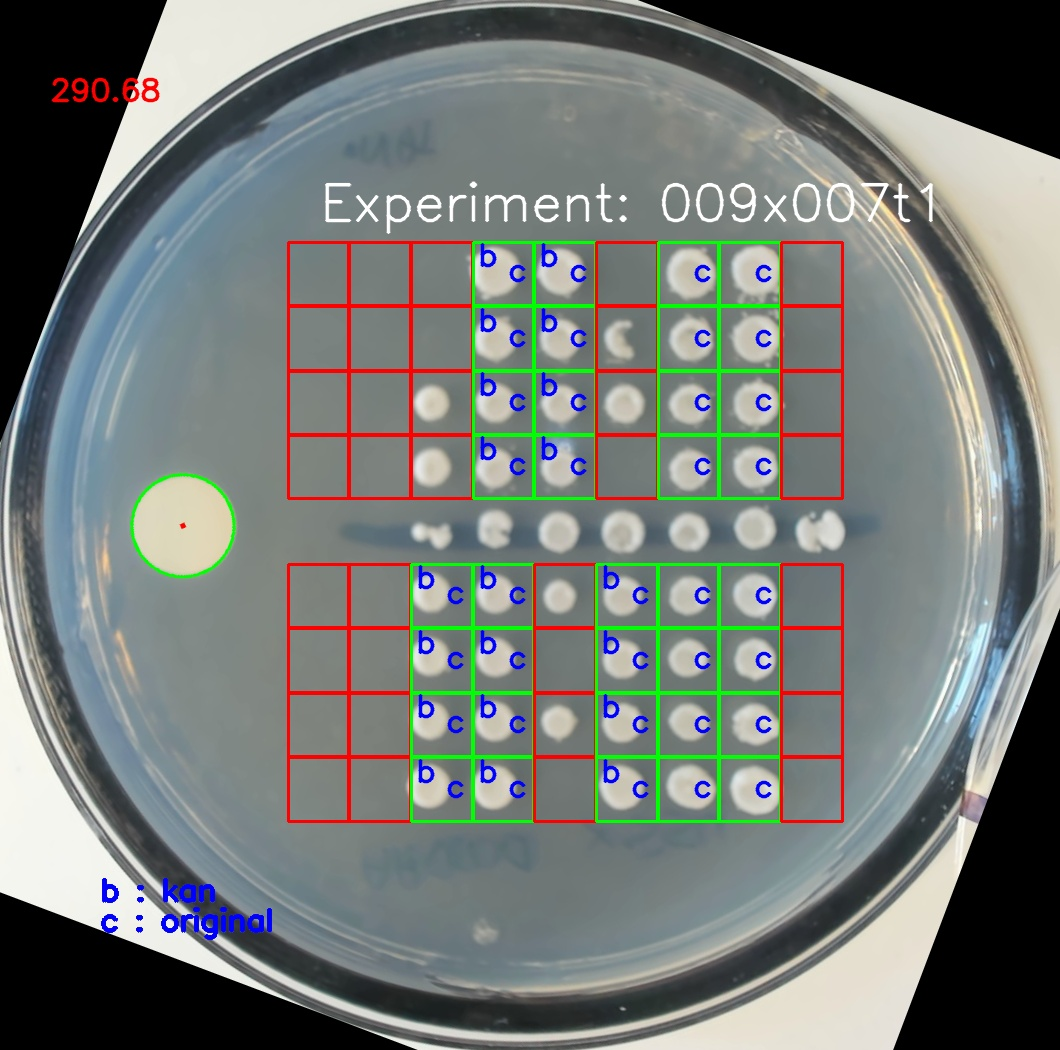
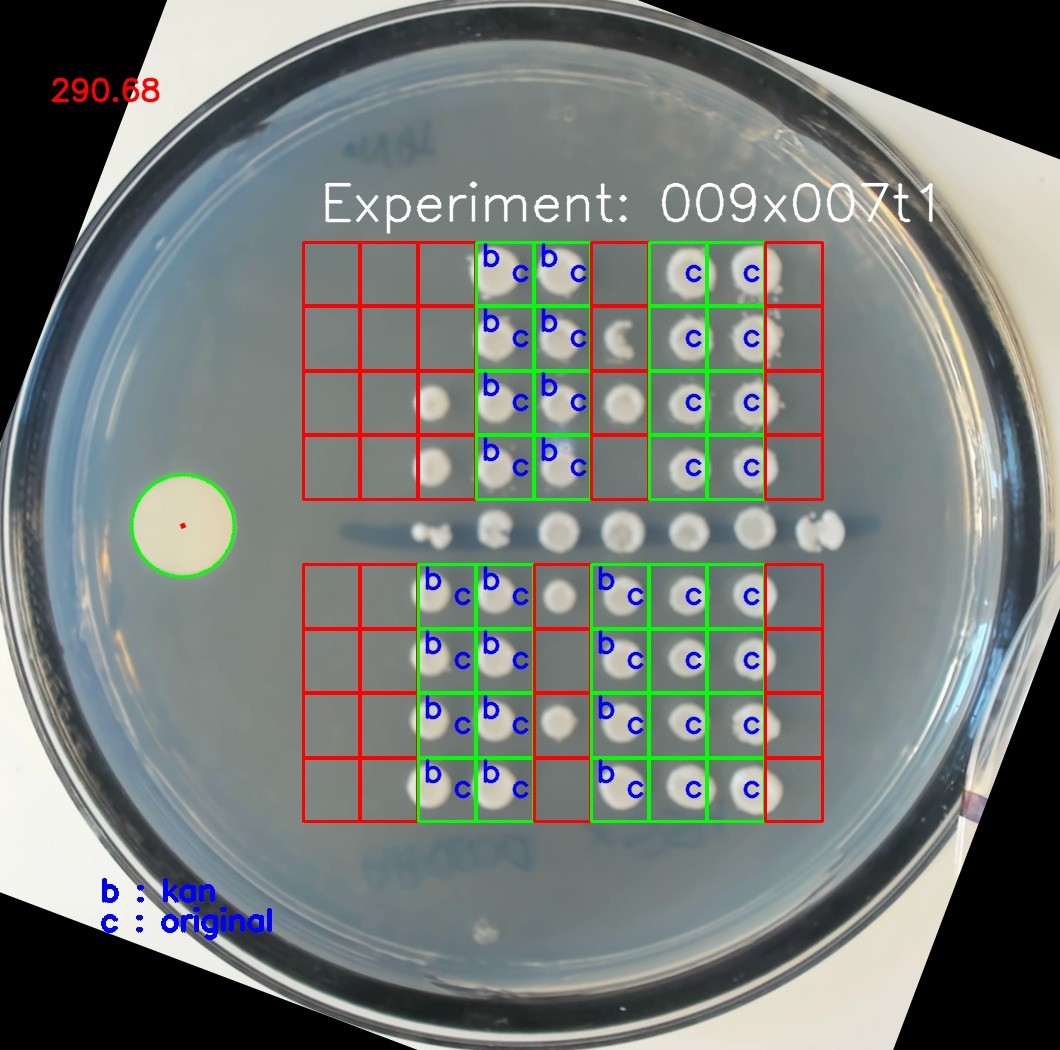
push new image analysis

Changed region(s): [[0.2491, 0.5181, 0.8094, 0.7924], [0.2491, 0.2133, 0.8094, 0.4876]]

diff --git a/robotinterface/new_launch_image_analysis.py b/robotinterface/new_launch_image_analysis.py
@@ -1,0 +1,97 @@
+import os
+import tkinter as tk
+from job_library import *
+from tkinter import filedialog
+from tkinter import ttk
+
+
+class FolderChooserApp:
+    def __init__(self, root,path):
+        self.root = root
+        self.root.title("Folder Chooser")
+
+        # Set the initial path
+        self.initial_path = path # Change this to your desired initial path
+
+        # Create and set the variable for selected folder
+        self.selected_folder = tk.StringVar()
+        self.selected_folder.set("No folder selected")
+
+        # Create and set the label to display the selected folder
+        self.selected_folder_label = tk.Label(root, text="Selected folder:")
+        self.selected_folder_label.pack(pady=5)
+
+
+        # Create the Combobox for folder selection
+        self.folder_combobox = ttk.Combobox(root, values=[], state="readonly", postcommand=self.update_folder_combobox)
+        self.folder_combobox.pack(pady=10)
+
+        # Create the text "Number of Columns" between the two Comboboxes
+        ttk.Label(root, text="Number of Columns").pack(pady=5)
+
+        # Create the Combobox for choosing the number of columns
+        self.columns_combobox = ttk.Combobox(root, values=[9, 10], state="readonly")
+        self.columns_combobox.set(9)
+        self.columns_combobox.pack(pady=10)
+
+        # Create two Checkbuttons
+        self.aggregate_var = tk.BooleanVar(value=True)  # Set to True for initial check
+        self.aggregate_checkbutton = ttk.Checkbutton(root, text="Aggregate Results", variable=self.aggregate_var)
+        self.aggregate_checkbutton.pack(pady=5)
+
+        self.sensitivity_checkbutton = ttk.Checkbutton(root, text="High Sensitivity")
+        self.sensitivity_checkbutton.pack(pady=5)
+
+        # Create the "Validate" button
+        self.validate_button = tk.Button(root, text="Validate", command=self.validate_selection)
+        self.validate_button.pack(pady=10)
+
+        # Update the Combobox with the list of folders initially
+        self.update_folder_combobox()
+
+    def update_folder_combobox(self):
+        # Get the list of folders in the initial path
+        folders = [f for f in os.listdir(self.initial_path) if os.path.isdir(os.path.join(self.initial_path, f))]
+
+        # Sort folders by modification time (most recent first)
+        folders.sort(key=lambda f: os.path.getmtime(os.path.join(self.initial_path, f)), reverse=True)
+
+        # Set the Combobox values
+        self.folder_combobox["values"] = folders
+
+        # Set the default value
+        if folders:
+            selected_folder = os.path.join(self.initial_path, folders[0])
+            self.folder_combobox.set(folders[0])
+            self.selected_folder.set(selected_folder)
+
+        else:
+            self.folder_combobox.set("No folders")
+            self.selected_folder.set("No folder selected")
+
+
+
+    def validate_selection(self):
+        # Print all the selected values
+        self.selected_folder = self.folder_combobox.get()
+        self.num_columns = int(self.columns_combobox.get())
+        self.aggregate_results = self.aggregate_checkbutton.instate(['selected'])
+        self.high_sensitivity = self.sensitivity_checkbutton.instate(['selected'])
+
+        self.root.destroy()
+
+        print("Selected folder:", self.selected_folder)
+        print("Number of columns chosen:", self.num_columns)
+        print("Aggregate Results:", self.aggregate_results)
+        print("High Sensitivity:", self.high_sensitivity)
+
+if __name__ == "__main__":
+    path = "/Users/Etienne/Documents/GitHub/robot-interface/images"
+    root = tk.Tk()
+    app = FolderChooserApp(root,path)
+    root.mainloop()
+
+    analyse_each_image_separately(os.path.join(path,app.selected_folder), auto_offset=True, auto_rotate=False,
+                                  num_cols=app.num_columns, aggregation=app.aggregate_results)
+
+    summary_of_all_images(os.path.join(path,app.selected_folder))

diff --git a/Computer_vision/Image_processing/cv_orientation.py b/Computer_vision/Image_processing/cv_orientation.py
@@ -95,18 +95,22 @@ def detect_sticker(cropped_input):
     detected_circles = cv2.HoughCircles(gray_blurred,
                                         cv2.HOUGH_GRADIENT, 1, 20, param1=50,
                                         param2=28, minRadius=45, maxRadius=120)
-    angle=0
-    for pt in detected_circles[0, :]:
-        a, b, r = pt[0], pt[1], pt[2]
-        #print("a", a, "b", b, "r", r)
-        # Draw the circumference of the circle.
-        if r <= 57 and r >= 49:
-            cv2.circle(cropped_input, (int(a), int(b)), int(r), (0, 255, 0), 2)
 
-            # Draw a small circle (of radius 1) to show the center.
-            cv2.circle(cropped_input, (int(a), int(b)), 1, (0, 0, 255), 3)
-            angle = np.arctan2((b - center[1]), (a - center[0])) * 180 / np.pi
-    
+    angle=0
+    try :
+        for pt in detected_circles[0, :]:
+            a, b, r = pt[0], pt[1], pt[2]
+            #print("a", a, "b", b, "r", r)
+            # Draw the circumference of the circle.
+            if r <= 57 and r >= 49:
+                cv2.circle(cropped_input, (int(a), int(b)), int(r), (0, 255, 0), 2)
+
+                # Draw a small circle (of radius 1) to show the center.
+                cv2.circle(cropped_input, (int(a), int(b)), 1, (0, 0, 255), 3)
+                angle = np.arctan2((b - center[1]), (a - center[0])) * 180 / np.pi
+    except:
+        print("NO STICKER DETECTED, ANGLE=0")
+        pass
     return 180 - angle
     
 

diff --git a/robotinterface/launch_image_analysis.py b/robotinterface/launch_image_analysis.py
@@ -103,6 +103,29 @@ class Question:
         self.button = tk.Button(self.labelframe, text="OK", command=self.tkinter_window.destroy)
         self.button.pack()
 
+    def update_folder_combobox(self):
+        # Get the list of folders in the initial path
+        folders = [f for f in os.listdir(self.initial_path) if os.path.isdir(os.path.join(self.initial_path, f))]
+        folders.sort(key=lambda f: os.path.getmtime(os.path.join(self.initial_path, f)), reverse=True)
+
+        # Set the Combobox values
+        self.folder_combobox["values"] = folders
+
+        # Set the default value
+        if folders:
+            self.folder_combobox.set(folders[0])
+        else:
+            self.folder_combobox.set("No folders")
+
+    def choose_folder(self):
+        selected_folder = self.folder_combobox.get()
+
+        # Update the selected folder variable and label
+        if selected_folder and selected_folder != "No folders":
+            folder_path = os.path.join(self.initial_path, selected_folder)
+            self.selected_folder.set(folder_path)
+        else:
+            self.selected_folder.set("No folder selected")
 
 if __name__ == "__main__":
     if platform.system() == 'Windows':
